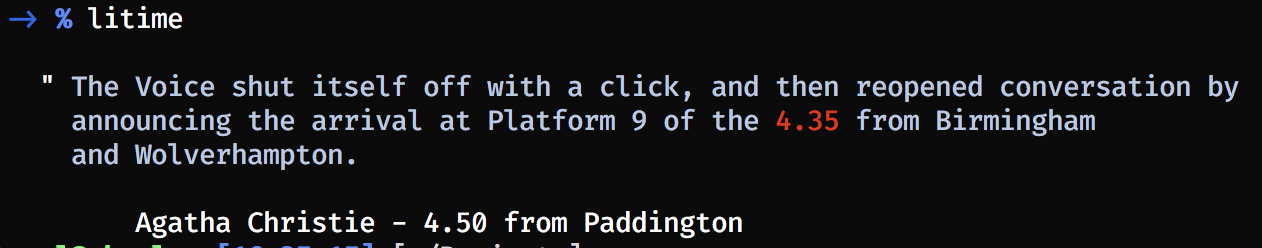
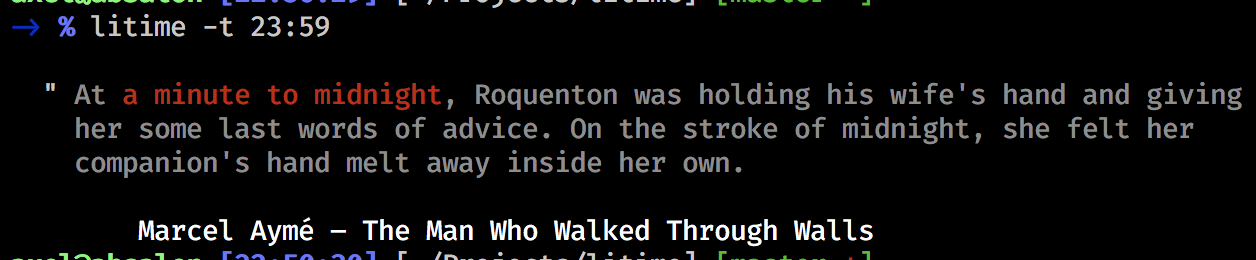
Update readme

diff --git a/README.md b/README.md
@@ -1,8 +1,6 @@
 # Litime
 
-Literature time clock to use in your terminal. I personaly run it when I open a new terminal, showing me a quote for the current time.
-
-It's very hacked together, just as fun for myself. I used to have a python script doing this, which was 10 times slower than the resulting rust binary. I want to potentially look into how to make it even faster, just to learn more about Rust.
+A simple tool to display the current time with a quote from literature.
 
 ### Example
 
